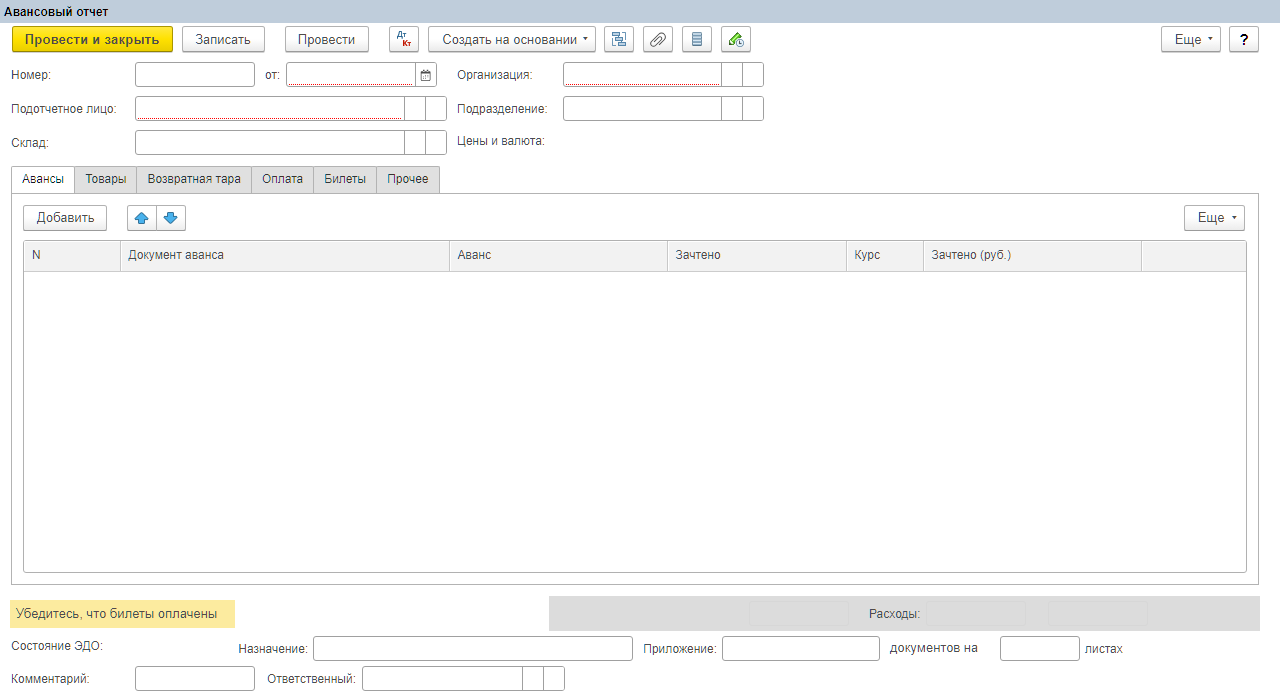
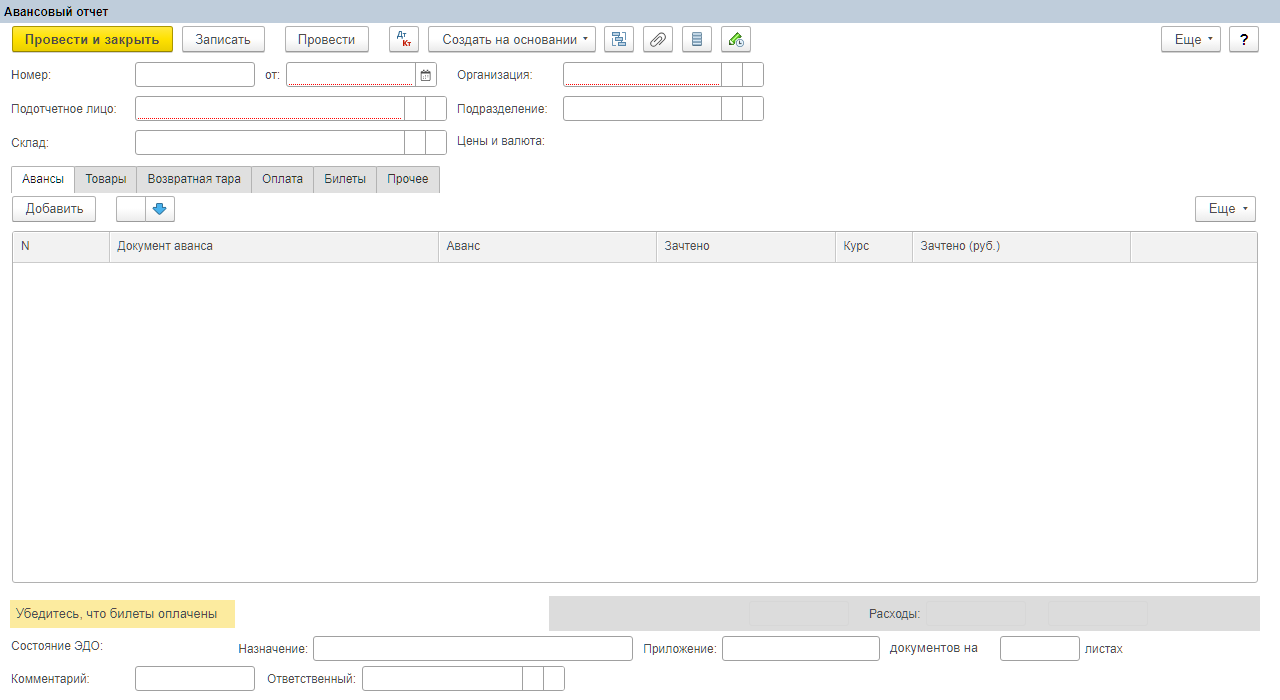
feat(forms): страница формы без внутренней рамки и инструмент сверки вида
Таблица занимает ширину полотна: рендерер добавлял панели страницы рамку и отступы --fp-page-padding-*, из-за чего рамка внутри страницы была двойной, а таблица уже полотна на 22 px. Замер эталона: 10..969, было 22..956, стало 12..965.

Добавлен tools/form_view_measure.py: render/marks/pair/serve для сверки снимка формы с конфигуратором; в docs/form-exact-view.md раздел «Замеренные расхождения» с числами по шапке и таблице.

diff --git a/resources/formpreview/css/qv8-host.css b/resources/formpreview/css/qv8-host.css
@@ -14,6 +14,17 @@ html, body {
     height: 100vh;
 }
 
+/* Страница занимает всю ширину полотна, как в конфигураторе: в эталоне формы
+ * «Авансового отчёта» рамка таблицы стоит на x=10…969, то есть на краю
+ * страницы, а не с отступом. Рендерер BslEdit добавляет к панели страницы
+ * рамку и отступы --fp-page-padding-*; в редакторе 1С их нет, поэтому внутри
+ * страницы рамка становится двойной, а таблица уже полотна на 22 px.
+ * Замеры — docs/form-exact-view.md, «Замеренные расхождения». */
+.fp-pages-panel-wrap {
+    padding: 0 !important;
+    border: 0 !important;
+}
+
 #qv8-error {
     position: fixed;
     inset: 0;

diff --git a/tools/form_view_measure.py b/tools/form_view_measure.py
@@ -1,0 +1,231 @@
+#!/usr/bin/env python3
+"""Сверка вида управляемой формы с конструктором 1С.
+
+Скрипт делает три вещи, которые нужны для попиксельной сверки:
+
+* ``render`` — собирает JSON-модель формы командой ``v8reader_cli form-model``
+  и снимает её в HTML-рендерере (headless Chrome) при заданном размере окна;
+* ``marks`` — печатает вертикальные границы (рамки полей, разделители колонок
+  таблицы) на указанных строках снимка: значения по x сравниваются глазами или
+  скриптом с эталоном;
+* ``pair`` — склеивает эталон и наш снимок в одну картинку для просмотра.
+
+Эталон снимается с формы, открытой в конфигураторе: вкладка «Форма» рисует её
+в масштабе 1:1, полотно обводится синей рамкой, и размер рамки — это размер
+снимка (для формы документа «АвансовыйОтчет» — 988x438).
+
+Запуск (Windows, нужен Pillow и Chrome; сервер из ``serve`` раздаёт каталог
+с ``model.html`` и ``model.json``)::
+
+    python tools/form_view_measure.py serve --root out/preview --port 8765
+    python tools/form_view_measure.py render --out out/ours.png
+    python tools/form_view_measure.py marks --image out/ours.png --rows 67,248
+    python tools/form_view_measure.py pair --ours out/ours.png --out out/pair.png
+
+По умолчанию объект — ``Документ.АвансовыйОтчет``, форма — ``ФормаДокумента``,
+контейнер — ``E:\\work\\dt_cf\\1Cv8_bp.cf``; всё это перекрывается аргументами.
+"""
+
+from __future__ import annotations
+
+import argparse
+import http.server
+import os
+import socketserver
+import subprocess
+import sys
+import time
+import urllib.request
+
+REPO = os.path.dirname(os.path.dirname(os.path.abspath(__file__)))
+CLI = os.path.join(REPO, "out", "mingw", "v8reader_cli.exe")
+DEFAULT_CF = r"E:\work\dt_cf\1Cv8_bp.cf"
+DEFAULT_REF = os.path.join(REPO, "out", "ref-ao.png")
+CHROME_CANDIDATES = (
+    r"C:\Program Files\Google\Chrome\Application\chrome.exe",
+    r"C:\Program Files (x86)\Google\Chrome\Application\chrome.exe",
+)
+
+
+def find_chrome() -> str:
+    for path in CHROME_CANDIDATES:
+        if os.path.exists(path):
+            return path
+    raise SystemExit("chrome.exe не найден")
+
+
+def qt_env() -> dict:
+    env = dict(os.environ)
+    for prefix in (r"E:\Qt_6\6.11.2\mingw_64\bin", r"C:\Qt\6.9.1\mingw_64\bin",
+                   r"E:\msys64\mingw64\bin"):
+        if os.path.isdir(prefix):
+            env["PATH"] = prefix + ";" + env.get("PATH", "")
+            break
+    return env
+
+
+def model_command(args) -> list:
+    return [CLI, "form-model", args.cf, args.object, "--form", args.form,
+            "-o", os.path.join(args.root, "model.json")]
+
+
+def shoot(args, out_path: str) -> None:
+    stamp = str(int(time.time()))
+    if os.path.exists(out_path):
+        os.remove(out_path)
+    subprocess.run(
+        [find_chrome(), "--headless=new", "--disable-gpu", "--hide-scrollbars",
+         "--force-device-scale-factor=1",
+         "--window-size=%d,%d" % (args.width, args.height),
+         "--screenshot=" + out_path,
+         "%s/model.html?t=%s" % (args.url, stamp)],
+        capture_output=True, env=qt_env(), timeout=180, check=False,
+    )
+    if not os.path.exists(out_path):
+        raise SystemExit("снимок не создан: " + out_path)
+
+
+def command_render(args) -> None:
+    if not os.path.exists(CLI):
+        raise SystemExit("сначала соберите проект: " + CLI)
+    out_path = os.path.abspath(args.out)
+    os.makedirs(os.path.dirname(out_path) or ".", exist_ok=True)
+    result = subprocess.run(model_command(args), capture_output=True, text=True,
+                            encoding="utf-8", errors="replace", env=qt_env())
+    if result.returncode != 0:
+        raise SystemExit("form-model: " + (result.stdout + result.stderr).strip())
+    try:
+        urllib.request.urlopen(args.url + "/model.json", timeout=5).read()
+    except Exception as error:  # noqa: BLE001
+        raise SystemExit("сервер не отвечает (%s): %s" % (args.url, error))
+    shoot(args, out_path)
+    size = image_size(out_path)
+    print("%s %dx%d" % (os.path.basename(out_path), size[0], size[1]))
+
+
+def image_size(path: str) -> tuple:
+    from PIL import Image
+
+    return Image.open(path).size
+
+
+def marks_of(path: str, rows: list) -> dict:
+    """Вертикальные линии рамок: непрерывные участки серого цвета по строке."""
+    import numpy as np
+    from PIL import Image
+
+    image = np.asarray(Image.open(path).convert("RGB"), dtype=np.int16)
+    result = {}
+    for y in rows:
+        row = image[y]
+        maximum = row.max(axis=1)
+        minimum = row.min(axis=1)
+        mask = (maximum - minimum <= 22) & (minimum >= 140) & (maximum <= 240)
+        runs = []
+        for x in np.nonzero(mask)[0]:
+            x = int(x)
+            if runs and x - runs[-1][-1] <= 1:
+                runs[-1].append(x)
+            else:
+                runs.append([x])
+        result[y] = [(run[0], run[-1]) for run in runs]
+    return result
+
+
+def command_marks(args) -> None:
+    rows = [int(value) for value in args.rows.split(",") if value.strip()]
+    paths = [args.image] + ([args.ref] if args.ref else [])
+    for path in paths:
+        for y, runs in marks_of(path, rows).items():
+            text = " ".join("%d" % a if a == b else "%d-%d" % (a, b) for a, b in runs)
+            print("%-22s y=%-4d %s" % (os.path.basename(path), y, text))
+
+
+def command_pair(args) -> None:
+    from PIL import Image
+
+    width = args.width
+    top, bottom = args.top, args.bottom
+    ref = Image.open(args.ref).convert("RGB").crop((0, top, width, bottom))
+    ours = Image.open(args.ours).convert("RGB").crop((0, top, width, bottom))
+    height = ref.size[1]
+    canvas = Image.new("RGB", (width, height * 2 + 14), (255, 0, 0))
+    canvas.paste(ref, (0, 0))
+    canvas.paste(ours, (0, height + 14))
+    canvas.save(args.out)
+    print("%s %dx%d" % (os.path.basename(args.out), canvas.size[0], canvas.size[1]))
+
+
+def command_serve(args) -> None:
+    root = os.path.abspath(args.root)
+
+    class Handler(http.server.SimpleHTTPRequestHandler):
+        def __init__(self, *handler_args, **handler_kwargs):
+            super().__init__(*handler_args, directory=root, **handler_kwargs)
+
+        def end_headers(self):
+            self.send_header("Cache-Control", "no-store, no-cache, must-revalidate, max-age=0")
+            self.send_header("Pragma", "no-cache")
+            super().end_headers()
+
+        def log_message(self, *handler_args):
+            pass
+
+    socketserver.TCPServer.allow_reuse_address = True
+    with socketserver.TCPServer(("127.0.0.1", args.port), Handler) as server:
+        print("раздаю %s на http://127.0.0.1:%d" % (root, args.port))
+        server.serve_forever()
+
+
+def build_parser() -> argparse.ArgumentParser:
+    parser = argparse.ArgumentParser(description=__doc__,
+                                     formatter_class=argparse.RawDescriptionHelpFormatter)
+    sub = parser.add_subparsers(dest="command", required=True)
+
+    def add_render_options(target):
+        target.add_argument("--cf", default=DEFAULT_CF, help="контейнер .cf/.epf")
+        target.add_argument("--object", default="Документ.АвансовыйОтчет",
+                            help="объект метаданных")
+        target.add_argument("--form", default="ФормаДокумента", help="имя формы")
+        target.add_argument("--root", default=os.path.join(REPO, "out", "preview"),
+                            help="каталог с model.html (сюда пишется model.json)")
+        target.add_argument("--url", default="http://127.0.0.1:8765",
+                            help="адрес локального сервера")
+        target.add_argument("--width", type=int, default=988)
+        target.add_argument("--height", type=int, default=438)
+
+    render = sub.add_parser("render", help="снять форму в рендерере")
+    add_render_options(render)
+    render.add_argument("--out", default=os.path.join(REPO, "out", "ours.png"))
+    render.set_defaults(handler=command_render)
+
+    marks = sub.add_parser("marks", help="напечатать вертикальные границы на строках")
+    marks.add_argument("--image", required=True)
+    marks.add_argument("--ref", default=DEFAULT_REF, help="эталон ('' чтобы не печатать)")
+    marks.add_argument("--rows", required=True, help="строки через запятую")
+    marks.set_defaults(handler=command_marks)
+
+    pair = sub.add_parser("pair", help="склеить эталон и снимок")
+    pair.add_argument("--ours", required=True)
+    pair.add_argument("--ref", default=DEFAULT_REF)
+    pair.add_argument("--out", default=os.path.join(REPO, "out", "pair.png"))
+    pair.add_argument("--width", type=int, default=988)
+    pair.add_argument("--top", type=int, default=0)
+    pair.add_argument("--bottom", type=int, default=438)
+    pair.set_defaults(handler=command_pair)
+
+    serve = sub.add_parser("serve", help="локальный сервер без кеша")
+    serve.add_argument("--root", default=os.path.join(REPO, "out", "preview"))
+    serve.add_argument("--port", type=int, default=8765)
+    serve.set_defaults(handler=command_serve)
+    return parser
+
+
+def main() -> int:
+    args = build_parser().parse_args()
+    args.handler(args)
+    return 0
+
+
+if __name__ == "__main__":
+    sys.exit(main())

diff --git a/docs/form-exact-view.md b/docs/form-exact-view.md
@@ -966,6 +966,82 @@ python tools/form_xml_compare.py \
 что модель не теряет свойства: расхождение в геометрии почти всегда означает
 потерянное свойство элемента, а не ошибку вёрстки.
 
+Всё это делает `tools/form_view_measure.py` (нужны Pillow и Chrome):
+
+```sh
+python tools/form_view_measure.py serve --root out/preview --port 8765   # в отдельном окне
+python tools/form_view_measure.py render --out out/ours.png
+python tools/form_view_measure.py marks --image out/ours.png --rows 67,248
+python tools/form_view_measure.py pair --ours out/ours.png --out out/pair.png
+```
+
+`render` собирает модель командой `v8reader_cli form-model` и снимает страницу
+при 988×438, `marks` печатает вертикальные границы на указанных строках сразу
+для снимка и эталона (по умолчанию `out/ref-ao.png`), `pair` склеивает эталон
+и снимок в одну картинку. `--object`, `--form`, `--cf` и `--width/--height`
+переопределяют объект, форму, контейнер и размер полотна.
+
+### Замеренные расхождения
+
+Сверка формы «Авансового отчёта» (полотно 988×438, строки снимка указаны в
+пикселях от верха полотна) показывает, где рендерер ещё не повторяет
+конфигуратор. Числа сняты скриптом `tools/form_view_measure.py`: он печатает
+непрерывные участки серого цвета по строке — это рамки полей и разделители
+колонок таблицы.
+
+Шапка (строка 67 — середина полей первого ряда, 105 — второго):
+
+| Элемент | Конфигуратор | Сейчас | Замечание |
+|---|---|---|---|
+| начало поля «Номер» | 114 | 135 | колонка подписей шире на 21 px |
+| «Номер» | 121 | 120 | ширина совпала |
+| «Дата» | 266…426 | 286…415 | уже на 31 px |
+| «Организация» | 637…927 (до 969) | 563…721 (до 763) | уже на 132 px, не доходит до края формы |
+| «Подотчетное лицо» | 114…523 | 135…446 | уже на 98 px |
+| подпись «Подотчетное лицо:» | в две строки | в одну | из-за широкой колонки подписей |
+
+Таблица (строка 248 — шапка таблицы):
+
+| Колонка | Конфигуратор | Сейчас |
+|---|---|---|
+| N | 47 | 97 |
+| Документ аванса | 255 | 329 |
+| Аванс | 168 | 218 |
+| Зачтено | 179 | 179 |
+| Курс | 77 | 77 |
+| Зачтено (руб.) | 168 | 53 |
+| Отступ | 43 | — |
+
+По вертикали таблица в конфигураторе доходит до низа полотна (обрез на 438),
+у нас заканчивается на 367 и ниже видны группы подвала формы.
+
+Рамка таблицы: в конфигураторе — 10…969 (то есть по краям полотна), у нас была
+22…956, потому что рендерер добавлял панели страницы рамку и отступы
+`--fp-page-padding-*`. Внутри страницы рамка получалась двойной (панель плюс
+таблица), а таблица — уже полотна на 22 px. Отступы и рамка панели убраны
+(правило в `resources/formpreview/css/qv8-host.css`), рамка таблицы теперь
+12…965.
+
+Причины понятны не для всех расхождений. Проверено:
+
+- Ширина полей в модели уже совпадает с платформой: у «Подотчетного лица» и
+  «Организации» рендерер ставит одинаковый предел 410 px (как в конфигураторе),
+  но вписывает поле в ширину своей колонки, а колонка остаётся
+  «по содержимому». Конфигуратор для этой формы отдаёт свободное место
+  колонкам (левая — 518 px, правая — 438 px), поэтому поле «Организация»
+  доходит до правого края полотна.
+- Подписи в шапке выровнены сквозным выравниванием: в конфигураторе колонка
+  подписей — 104 px (по самой широкой, «Подразделение:»), поэтому «Подотчетное
+  лицо:» переносится на две строки; у нас колонка равна 119 px по этой подписи.
+- Ширина таблицы в обоих случаях одна (около 940 px), но рендерер распределяет
+  её между колонками иначе: «Зачтено» и «Курс» совпали, а первые колонки шире
+  эталона, из-за чего у последней остаётся 31 px вместо 168 и появляется
+  горизонтальная прокрутка.
+- Вертикальное растяжение таблицы в рендерере считается по содержимому
+  страницы: панель страницы получает высоту 78 px, таблица — 165 px, хотя
+  элемент помечен `fp-vstretch`. На полотне того же размера конфигуратор
+  отдаёт таблице всё место до низа формы.
+
 ## Обновление ресурсов рендерера
 
 1. Взять архив BslEdit (MIT), скопировать из `packages/1c-preview-core/browser`

diff --git a/CHANGELOG.md b/CHANGELOG.md
@@ -2,6 +2,17 @@
 
 ## [Не выпущено]
 
+### Добавлено
+
+- `tools/form_view_measure.py` — сверка вида формы с конфигуратором:
+  `render` собирает модель через `v8reader_cli form-model` и снимает её в
+  HTML-рендерере при заданном размере полотна, `marks` печатает вертикальные
+  границы (рамки полей и разделители колонок таблицы) на указанных строках
+  сразу для снимка и эталона, `pair` склеивает эталон и снимок в одну картинку,
+  `serve` поднимает локальный сервер без кеша. Замеры по форме «Авансового
+  отчёта» (988×438) и разбор причин расхождений — в
+  `docs/form-exact-view.md`, раздел «Замеренные расхождения».
+
 ### Исправлено
 
 - Точный вид: у поля «Номер» документа, «Код» и «Наименование» справочника
@@ -19,6 +30,11 @@
   `FormPreview.applyTypeDefaultsToModel` в `model-app.js`; без этого вызова
   сериализованная модель отдавала только авторские свойства, и любое поле
   получало ширину в 20 символов и теряло кнопки выбора.
+- Точный вид: таблица занимает ширину полотна, как в конфигураторе. Рендерер
+  добавлял панели страницы рамку и отступы `--fp-page-padding-*`, поэтому
+  внутри страницы рамка была двойной, а таблица уже полотна на 22 px (22…956
+  вместо 10…969 у эталона формы «Авансового отчёта»). Отступы и рамка панели
+  убраны в `qv8-host.css`; рамка таблицы теперь 12…965.
 - Точный вид: дата документа получает вид значения `DateTime` из метаданных,
   поэтому поле даты считается по тому же правилу, что и в конфигураторе.
 
